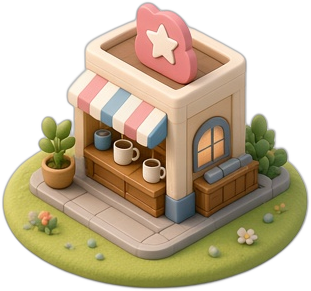
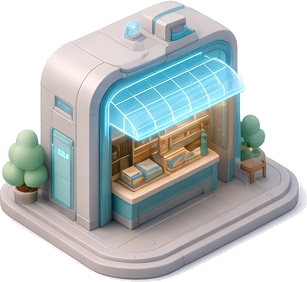
Replace the town with the robot-tech island and buildings.
The mochi bots keep their poses. Six tech buildings sit on the round plots, with more space between them, and idle bots rest at the charging lounge.

diff --git a/town.js b/town.js
@@ -2,8 +2,8 @@
 (function () {
   'use strict';
 
-  var IW = 1280;
-  var IH = 640;
+  var IW = 1600;
+  var IH = 900;
   var DEMO = new URLSearchParams(location.search).get('demo') === '1';
   var REDUCE = window.matchMedia('(prefers-reduced-motion: reduce)').matches;
   var SPEED = REDUCE ? 2.4 : 0.105;
@@ -11,138 +11,132 @@
 
   var STATIONS = {
     citizenprep: {
-      name: 'CitizenPrep', color: '#ea580c', file: 'citizenprep.png', wide: 'w200',
-      x: 0.33, y: 0.255,
-      crane: { x: 0.41, y: 0.23 },
+      name: 'CitizenPrep', color: '#0ea5e9', file: 'citizenprep.png', w: 240,
+      x: 0.340, y: 0.287,
+      crane: { x: 0.44, y: 0.30 },
       slots: [
-        { x: 0.28, y: 0.325 },
-        { x: 0.345, y: 0.34 },
-        { x: 0.40, y: 0.315 }
+        { x: 0.30, y: 0.36 },
+        { x: 0.345, y: 0.378 },
+        { x: 0.39, y: 0.36 }
       ],
       trophies: [
-        { x: 0.24, y: 0.20 },
-        { x: 0.40, y: 0.16 },
-        { x: 0.22, y: 0.30 },
-        { x: 0.43, y: 0.28 }
+        { x: 0.26, y: 0.24 },
+        { x: 0.43, y: 0.24 },
+        { x: 0.25, y: 0.33 },
+        { x: 0.44, y: 0.34 }
       ]
     },
     paycheck: {
-      name: 'PayCheck Easy', color: '#059669', file: 'paycheck.png', wide: 'w200',
-      x: 0.67, y: 0.24,
-      crane: { x: 0.75, y: 0.21 },
+      name: 'PayCheck Easy', color: '#f59e0b', file: 'paycheck.png', w: 300,
+      x: 0.682, y: 0.291,
+      crane: { x: 0.78, y: 0.30 },
       slots: [
-        { x: 0.62, y: 0.31 },
-        { x: 0.69, y: 0.325 },
-        { x: 0.75, y: 0.29 }
+        { x: 0.64, y: 0.36 },
+        { x: 0.685, y: 0.378 },
+        { x: 0.73, y: 0.36 }
       ],
       trophies: [
-        { x: 0.58, y: 0.16 },
-        { x: 0.76, y: 0.15 },
-        { x: 0.60, y: 0.28 },
-        { x: 0.78, y: 0.27 }
+        { x: 0.60, y: 0.24 },
+        { x: 0.77, y: 0.24 },
+        { x: 0.59, y: 0.34 },
+        { x: 0.78, y: 0.34 }
       ]
     },
     nokorgo: {
-      name: 'NokorGo', color: '#d97706', file: 'nokorgo.png', wide: 'w200',
-      x: 0.19, y: 0.50,
-      crane: { x: 0.30, y: 0.44 },
+      name: 'NokorGo', color: '#d97706', file: 'nokorgo.png', w: 250,
+      x: 0.157, y: 0.533,
+      crane: { x: 0.26, y: 0.50 },
       slots: [
-        { x: 0.15, y: 0.575 },
-        { x: 0.22, y: 0.585 },
-        { x: 0.28, y: 0.55 }
+        { x: 0.12, y: 0.60 },
+        { x: 0.165, y: 0.62 },
+        { x: 0.22, y: 0.60 }
       ],
       trophies: [
-        { x: 0.10, y: 0.44 },
-        { x: 0.26, y: 0.42 },
-        { x: 0.12, y: 0.56 },
-        { x: 0.30, y: 0.50 }
+        { x: 0.08, y: 0.48 },
+        { x: 0.24, y: 0.46 },
+        { x: 0.08, y: 0.58 },
+        { x: 0.25, y: 0.56 }
       ]
     },
     hq: {
-      name: 'HQ', color: '#2563eb', file: 'hq.png', wide: 'w214',
-      x: 0.50, y: 0.47,
-      crane: { x: 0.58, y: 0.42 },
+      name: 'HQ', color: '#38bdf8', file: 'hq.png', w: 230,
+      x: 0.503, y: 0.535,
+      crane: { x: 0.60, y: 0.48 },
       slots: [
-        { x: 0.45, y: 0.55 },
-        { x: 0.52, y: 0.565 },
-        { x: 0.58, y: 0.53 }
+        { x: 0.46, y: 0.61 },
+        { x: 0.505, y: 0.63 },
+        { x: 0.55, y: 0.61 }
       ],
       trophies: [
-        { x: 0.42, y: 0.40 },
-        { x: 0.58, y: 0.38 },
-        { x: 0.40, y: 0.52 },
-        { x: 0.60, y: 0.50 }
+        { x: 0.42, y: 0.46 },
+        { x: 0.59, y: 0.46 },
+        { x: 0.42, y: 0.58 },
+        { x: 0.58, y: 0.58 }
       ]
     },
     rest: {
-      name: 'Resting Garden', color: '#16a34a', file: 'garden.png', wide: 'w250',
-      x: 0.80, y: 0.51,
+      name: 'Resting area', color: '#22d3ee', file: 'rest.png', w: 260,
+      x: 0.838, y: 0.534,
       crane: null,
       slots: [
-        { x: 0.73, y: 0.57 },
-        { x: 0.79, y: 0.59 },
-        { x: 0.85, y: 0.565 },
-        { x: 0.74, y: 0.63 },
-        { x: 0.81, y: 0.64 },
-        { x: 0.87, y: 0.61 },
-        { x: 0.70, y: 0.53 }
+        { x: 0.80, y: 0.60 },
+        { x: 0.845, y: 0.62 },
+        { x: 0.89, y: 0.60 },
+        { x: 0.78, y: 0.64 },
+        { x: 0.84, y: 0.66 },
+        { x: 0.90, y: 0.64 },
+        { x: 0.76, y: 0.57 }
       ],
       trophies: []
     },
     etsy: {
-      name: 'Etsy Shop', color: '#e11d48', file: 'etsy.png', wide: 'w200',
-      x: 0.33, y: 0.72,
-      crane: { x: 0.41, y: 0.68 },
+      name: 'Etsy Shop', color: '#38bdf8', file: 'etsy.png', w: 220,
+      x: 0.310, y: 0.805,
+      crane: { x: 0.40, y: 0.78 },
       slots: [
-        { x: 0.27, y: 0.78 },
-        { x: 0.34, y: 0.79 },
-        { x: 0.40, y: 0.76 }
+        { x: 0.27, y: 0.86 },
+        { x: 0.315, y: 0.88 },
+        { x: 0.36, y: 0.86 }
       ],
       trophies: [
-        { x: 0.24, y: 0.66 },
-        { x: 0.42, y: 0.66 },
-        { x: 0.22, y: 0.76 },
-        { x: 0.43, y: 0.74 }
+        { x: 0.24, y: 0.74 },
+        { x: 0.39, y: 0.74 },
+        { x: 0.23, y: 0.84 },
+        { x: 0.40, y: 0.84 }
       ]
     }
   };
 
   var NODES = {
-    cp: { x: 0.33, y: 0.31 },
-    cpj: { x: 0.34, y: 0.38 },
-    north: { x: 0.50, y: 0.30 },
-    pay: { x: 0.66, y: 0.29 },
-    hq: { x: 0.50, y: 0.50 },
-    midw: { x: 0.32, y: 0.50 },
-    nok: { x: 0.20, y: 0.52 },
-    mide: { x: 0.66, y: 0.52 },
-    rest: { x: 0.76, y: 0.55 },
-    south: { x: 0.36, y: 0.62 },
-    etsy: { x: 0.34, y: 0.72 }
+    cp: { x: 0.38, y: 0.36 },
+    cpj: { x: 0.44, y: 0.44 },
+    hqn: { x: 0.50, y: 0.46 },
+    pay: { x: 0.62, y: 0.36 },
+    payj: { x: 0.56, y: 0.44 },
+    nok: { x: 0.28, y: 0.53 },
+    hqw: { x: 0.40, y: 0.53 },
+    hq: { x: 0.50, y: 0.54 },
+    hqe: { x: 0.62, y: 0.53 },
+    rest: { x: 0.72, y: 0.53 },
+    etsy: { x: 0.34, y: 0.72 },
+    sth: { x: 0.42, y: 0.64 },
+    hqs: { x: 0.50, y: 0.62 }
   };
   var LINKS = {
     cp: ['cpj'],
-    cpj: ['cp', 'north', 'midw'],
-    north: ['cpj', 'pay', 'hq'],
-    pay: ['north'],
-    hq: ['north', 'midw', 'mide', 'south'],
-    midw: ['cpj', 'nok', 'hq', 'south'],
-    nok: ['midw'],
-    mide: ['hq', 'rest'],
-    rest: ['mide'],
-    south: ['hq', 'midw', 'etsy'],
-    etsy: ['south']
+    cpj: ['cp', 'hqn'],
+    hqn: ['cpj', 'payj', 'hq'],
+    pay: ['payj'],
+    payj: ['pay', 'hqn'],
+    nok: ['hqw'],
+    hqw: ['nok', 'hq'],
+    hq: ['hqn', 'hqw', 'hqe', 'hqs'],
+    hqe: ['hq', 'rest'],
+    rest: ['hqe'],
+    etsy: ['sth'],
+    sth: ['etsy', 'hqs'],
+    hqs: ['sth', 'hq']
   };
-
-  var TREES = [
-    [0.09, 0.31, 0.9], [0.16, 0.21, 1.05], [0.55, 0.12, 0.85], [0.77, 0.29, 1],
-    [0.78, 0.36, 0.8], [0.88, 0.66, 1.1], [0.91, 0.59, 0.9], [0.08, 0.56, 0.85],
-    [0.62, 0.74, 0.95], [0.48, 0.24, 0.75], [0.94, 0.46, 0.9], [0.69, 0.84, 0.8]
-  ];
-  var FLOWERS = [
-    [0.12, 0.34, 0.7], [0.58, 0.16, 0.65], [0.84, 0.34, 0.75], [0.12, 0.58, 0.6],
-    [0.72, 0.32, 0.7], [0.90, 0.62, 0.65], [0.56, 0.78, 0.7], [0.22, 0.22, 0.6]
-  ];
 
   var BOT_META = [
     { id: 'atlas', name: 'Atlas', role: 'Coordinator', sips: true, delay: 0.15, color: '#0f766e' },
@@ -175,8 +169,8 @@
     BOT_META.forEach(function (meta) {
       POSES.forEach(function (pose) { urls.push(spriteSrc(meta.id, pose)); });
     });
-    ['island.png', 'citizenprep.png', 'paycheck.png', 'nokorgo.png', 'etsy.png', 'hq.png', 'garden.png',
-      'crane.png', 'trophy_house.png', 'check_sign.png', 'star_trophy.png', 'tree.png', 'flowers.png'
+    ['island.png', 'citizenprep.png', 'paycheck.png', 'nokorgo.png', 'etsy.png', 'hq.png', 'rest.png',
+      'crane.png', 'trophy_house.png', 'check_sign.png', 'star_trophy.png'
     ].forEach(function (file) { urls.push(townSrc(file)); });
     urls.forEach(function (src) {
       var img = new Image();
@@ -277,7 +271,7 @@
     sceneEl = document.createElement('div');
     sceneEl.className = 'scene';
     sceneEl.setAttribute('role', 'img');
-    sceneEl.setAttribute('aria-label', 'Tun Labs island. Sandy paths join the project clearings. Use the bot buttons to open details.');
+    sceneEl.setAttribute('aria-label', 'Tun Labs island. Glowing paths join the project plots. Use the bot buttons to open details.');
     var island = makeImg('island.png', '');
     island.className = 'island';
     island.style.width = IW + 'px';
@@ -287,18 +281,10 @@
     world.style.width = IW + 'px';
     world.style.height = IH + 'px';
 
-    TREES.forEach(function (t) {
-      var el = addProp(t[0], t[1], 'tree.png', 'w78');
-      el.querySelector('img').style.width = Math.round(78 * t[2]) + 'px';
-    });
-    FLOWERS.forEach(function (t) {
-      var el = addProp(t[0], t[1], 'flowers.png', 'w56');
-      el.querySelector('img').style.width = Math.round(56 * t[2]) + 'px';
-    });
-
     Object.keys(STATIONS).forEach(function (id) {
       var s = STATIONS[id];
-      var bld = addProp(s.x, s.y, s.file, s.wide);
+      var bld = addProp(s.x, s.y, s.file, '');
+      bld.querySelector('img').style.width = s.w + 'px';
       bld.dataset.station = id;
       s.bldEl = bld;
       var anchor = document.createElement('div');
@@ -460,7 +446,7 @@
   }
 
   function projectName(id) {
-    return (STATIONS[id] && STATIONS[id].name) || 'the garden';
+    return (STATIONS[id] && STATIONS[id].name) || 'the resting area';
   }
 
   function normalizeProject(p) {
@@ -1353,12 +1339,12 @@
     state.className = 'state-pill ' + bot.state;
     state.textContent = bot.state === 'waiting' ? 'Waiting on you' : bot.state === 'working' ? 'Working' : 'Idle';
     document.getElementById('card-project').textContent = bot.state === 'idle' || !bot.project
-      ? 'In the resting garden'
+      ? 'In the resting area'
       : projectName(bot.project);
     var detail = document.getElementById('card-detail');
     if (bot.state === 'waiting') detail.textContent = bot.message || 'Waiting on you';
     else if (bot.state === 'working') detail.textContent = bot.task || 'Working';
-    else detail.textContent = bot.sips ? 'Sipping coffee on the couch.' : 'Dozing under the trees.';
+    else detail.textContent = bot.sips ? 'Sipping coffee in the resting area.' : 'Dozing in the resting area.';
     var wrap = document.getElementById('card-bar-wrap');
     if (bot.state === 'working') {
       wrap.hidden = false;

diff --git a/index.html b/index.html
@@ -3,7 +3,7 @@
 <head>
   <meta charset="utf-8">
   <meta name="viewport" content="width=device-width, initial-scale=1">
-  <meta name="description" content="Tun Labs Town — a live island studio where bots walk the sandy paths, wait on you, and leave finished work in the clearings.">
+  <meta name="description" content="Tun Labs Town — a live island studio where bots walk the glowing paths, wait on you, and leave finished work on the plots.">
   <meta name="theme-color" content="#8ecae6">
   <title>Tun Labs Town — Live Bot Studio</title>
   <link rel="icon" href="favicon.svg" type="image/svg+xml">

diff --git a/styles.css b/styles.css
@@ -277,15 +277,15 @@ h1 {
   position: absolute;
   left: 0;
   top: 0;
-  width: 1280px;
-  height: 640px;
+  width: 1600px;
+  height: 900px;
 }
 .scene .island {
   position: absolute;
   left: 0;
   top: 0;
-  width: 1280px;
-  height: 640px;
+  width: 1600px;
+  height: 900px;
   z-index: 1;
   pointer-events: none;
   user-select: none;

diff --git a/README.md b/README.md
@@ -1,8 +1,8 @@
 # Tun Labs Town
 
-A live island studio for Tun Labs. Bots walk the sandy paths to a project clearing while they work, wait on the owner with a speech bubble, or rest in the garden. Finished work pops in around that clearing.
+A live island studio for Tun Labs. Bots walk the glowing paths to a project plot while they work, wait on the owner with a speech bubble, or rest in the charging lounge. Finished work pops in around that plot.
 
-The page is plain HTML, CSS, and JavaScript. There is no build step. The map is the painted island in `assets/town/`. Bot art is the mochi sprite set in `assets/sprites/` (`idle`, `walk1`, `walk2`, `work`, and `rest` for each bot). Bots follow the sandy paths between clearings. GitHub Pages should serve this repository from the **main** branch, **root** folder, at [https://tspheak.github.io/botlive/](https://tspheak.github.io/botlive/).
+The page is plain HTML, CSS, and JavaScript. There is no build step. The map is the robot-tech island in `assets/town/`. Bot art is the mochi sprite set in `assets/sprites/` (`idle`, `walk1`, `walk2`, `work`, and `rest` for each bot). Bots follow the circuit paths between plots. GitHub Pages should serve this repository from the **main** branch, **root** folder, at [https://tspheak.github.io/botlive/](https://tspheak.github.io/botlive/).
 
 ## Run it locally
 
@@ -20,7 +20,7 @@ All live state comes from [`status.json`](status.json) in the repository root. T
 
 To update the town, commit a new `status.json` to `main` (open a pull request if that is how this repo lands changes). Within about half a minute the page will:
 
-- walk a bot to a new station, the resting garden, or a waiting spot
+- walk a bot to a new station, the resting area, or a waiting spot
 - update task labels and progress bars
 - pop a new finished building in with sparkles
 - prepend anything new in the news feed
@@ -73,7 +73,7 @@ One object per bot. Unknown ids are ignored. If a known bot is missing, it is tr
 
 - `working` — walks to `project` and plays that bot’s work animation (hammer, typing, magnifier, and so on) with the task and progress bar.
 - `waiting` — walks to `project`, shows an orange ring, and a bubble with `message`.
-- `idle` — walks to the resting garden. Some bots doze (`zzz`); some sip coffee.
+- `idle` — walks to the resting area. Some bots doze (`zzz`); some sip coffee.
 
 **Project ids**
 
